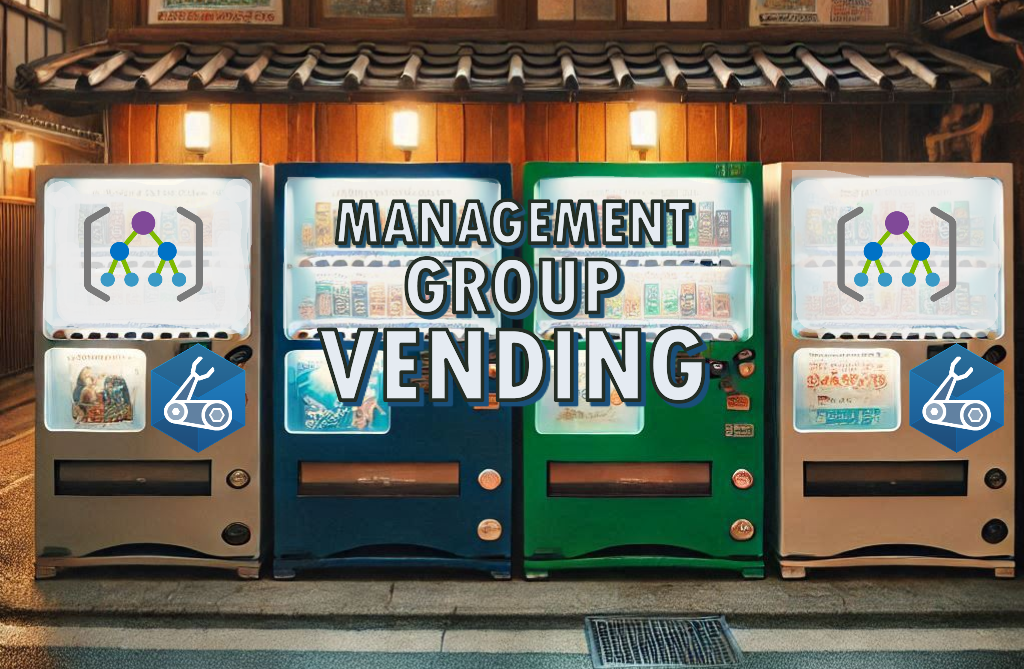
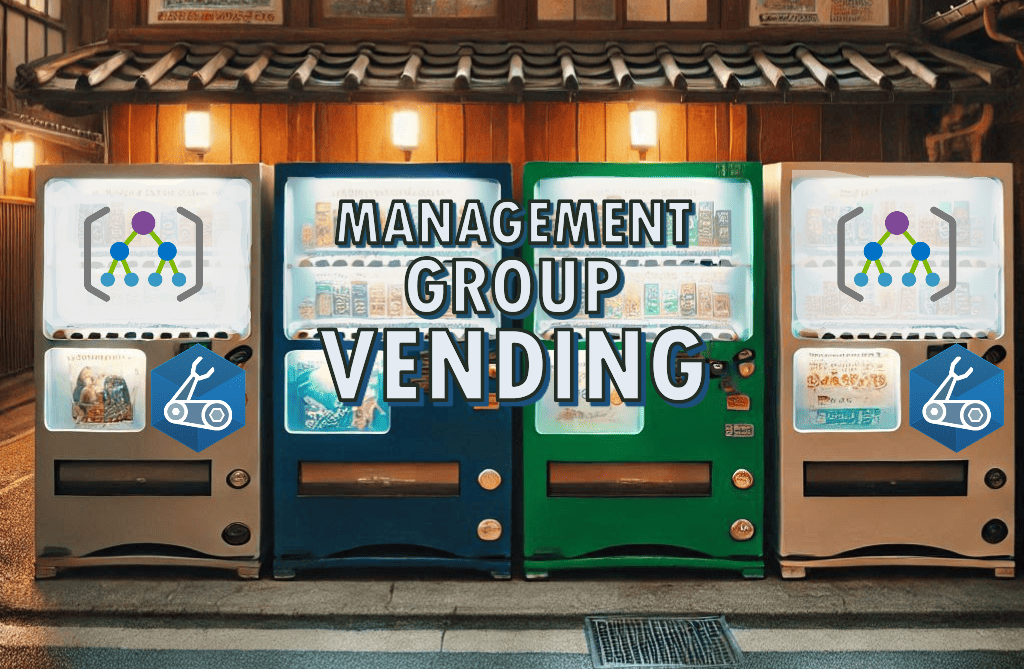
compressed images used in 2025 blog posts

Changed region(s): [[0.5938, 0.2392, 0.7188, 0.2691], [0.2812, 0.5381, 0.3438, 0.5979], [0.5312, 0.6278, 0.5625, 0.6577]]

diff --git a/posts/2025/building-a-cloud-center-of-excellence-the-scale-stage/index.html b/posts/2025/building-a-cloud-center-of-excellence-the-scale-stage/index.html
@@ -51,8 +51,8 @@
     },"image": [{
               "@type": "ImageObject",
               "url": "https:\/\/www.devjev.nl\/posts\/2025\/building-a-cloud-center-of-excellence-the-scale-stage\/featured-image.png",
-              "width":  1536 ,
-              "height":  1024 
+              "width":  1213 ,
+              "height":  809 
             }],"genre": "posts","keywords": "Cloud Center of Excellence (CCoE), Cloud Adoption, Cloud Strategy, Scaling, Cloud Governance, Digital Transformation, Cloud Best Practices","wordcount":  647 ,
     "url": "https:\/\/www.devjev.nl\/posts\/2025\/building-a-cloud-center-of-excellence-the-scale-stage\/","datePublished": "2025-07-04T08:00:00+02:00","dateModified": "2025-07-04T00:00:00+02:00","publisher": {
       "@type": "Organization",
